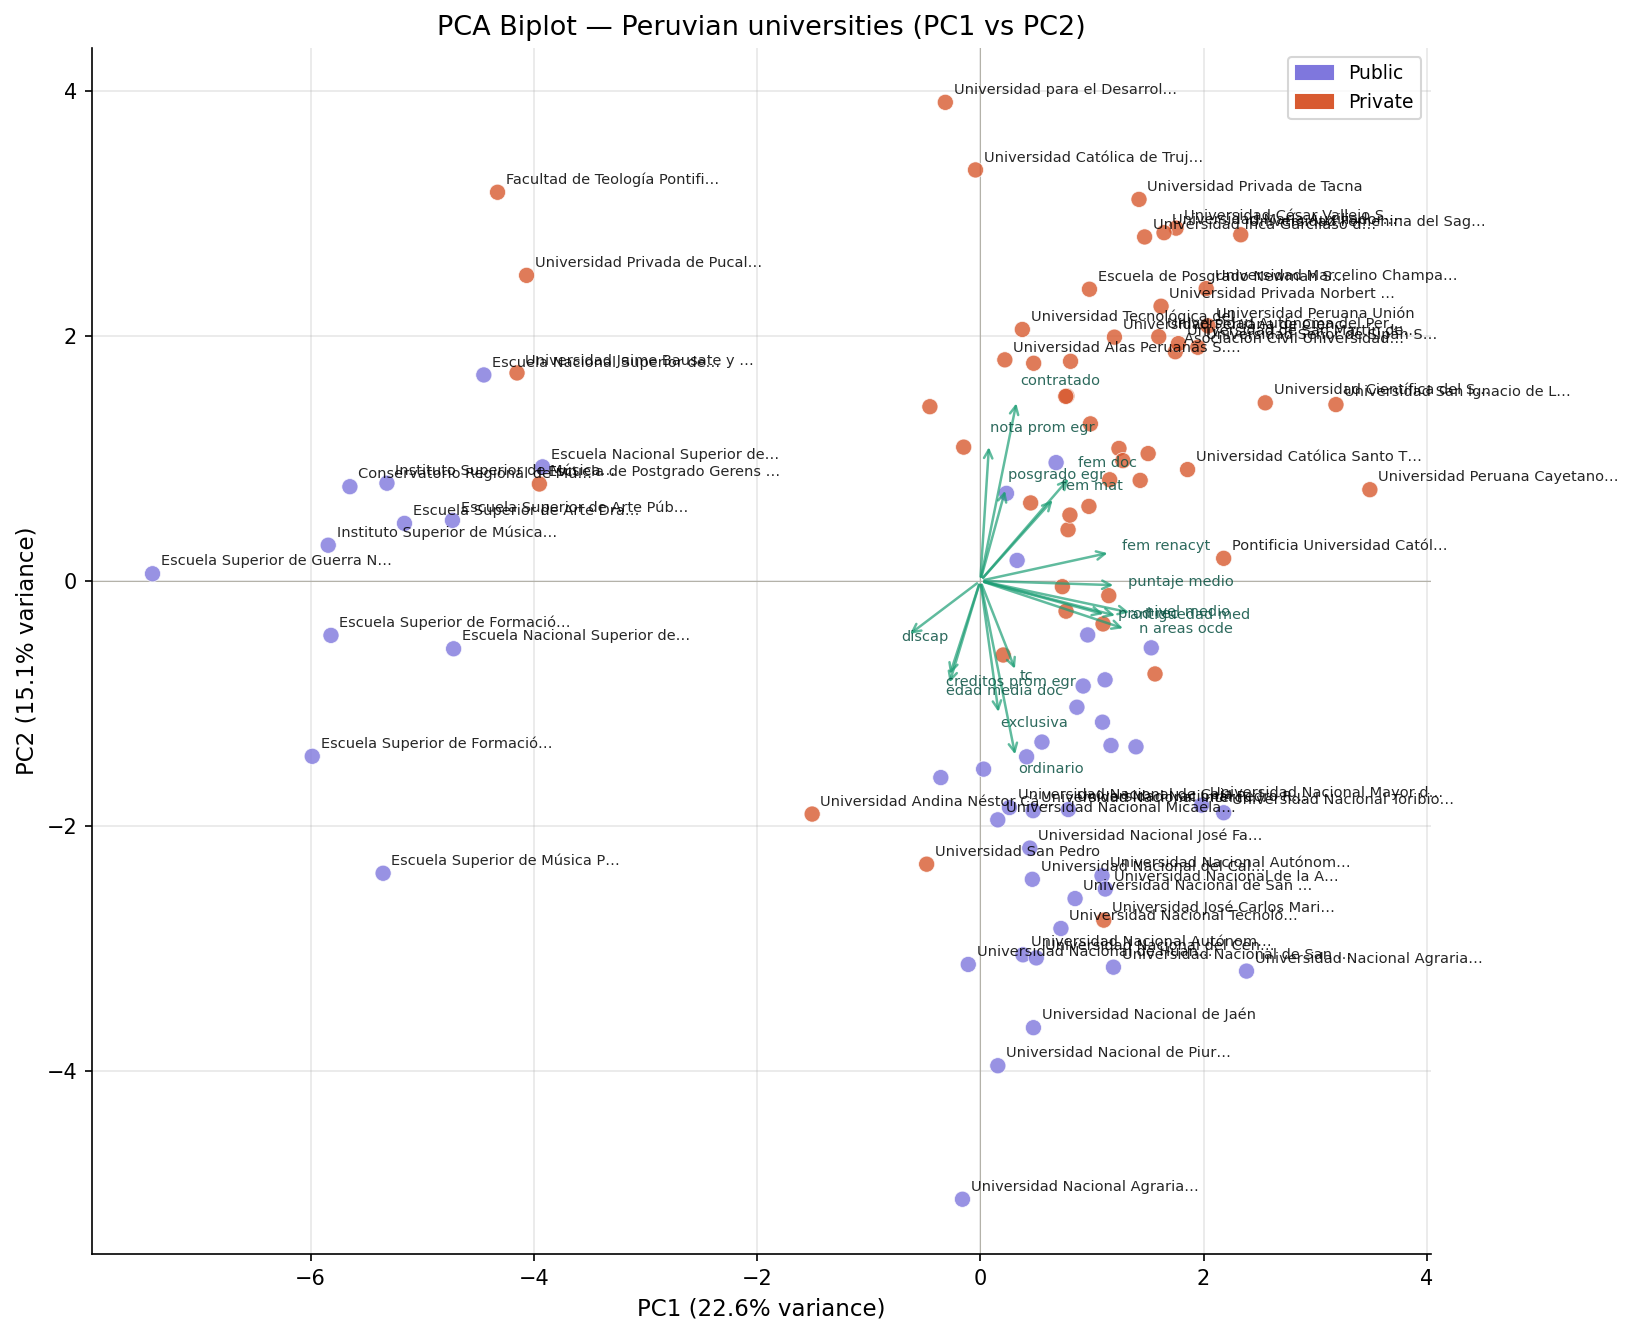
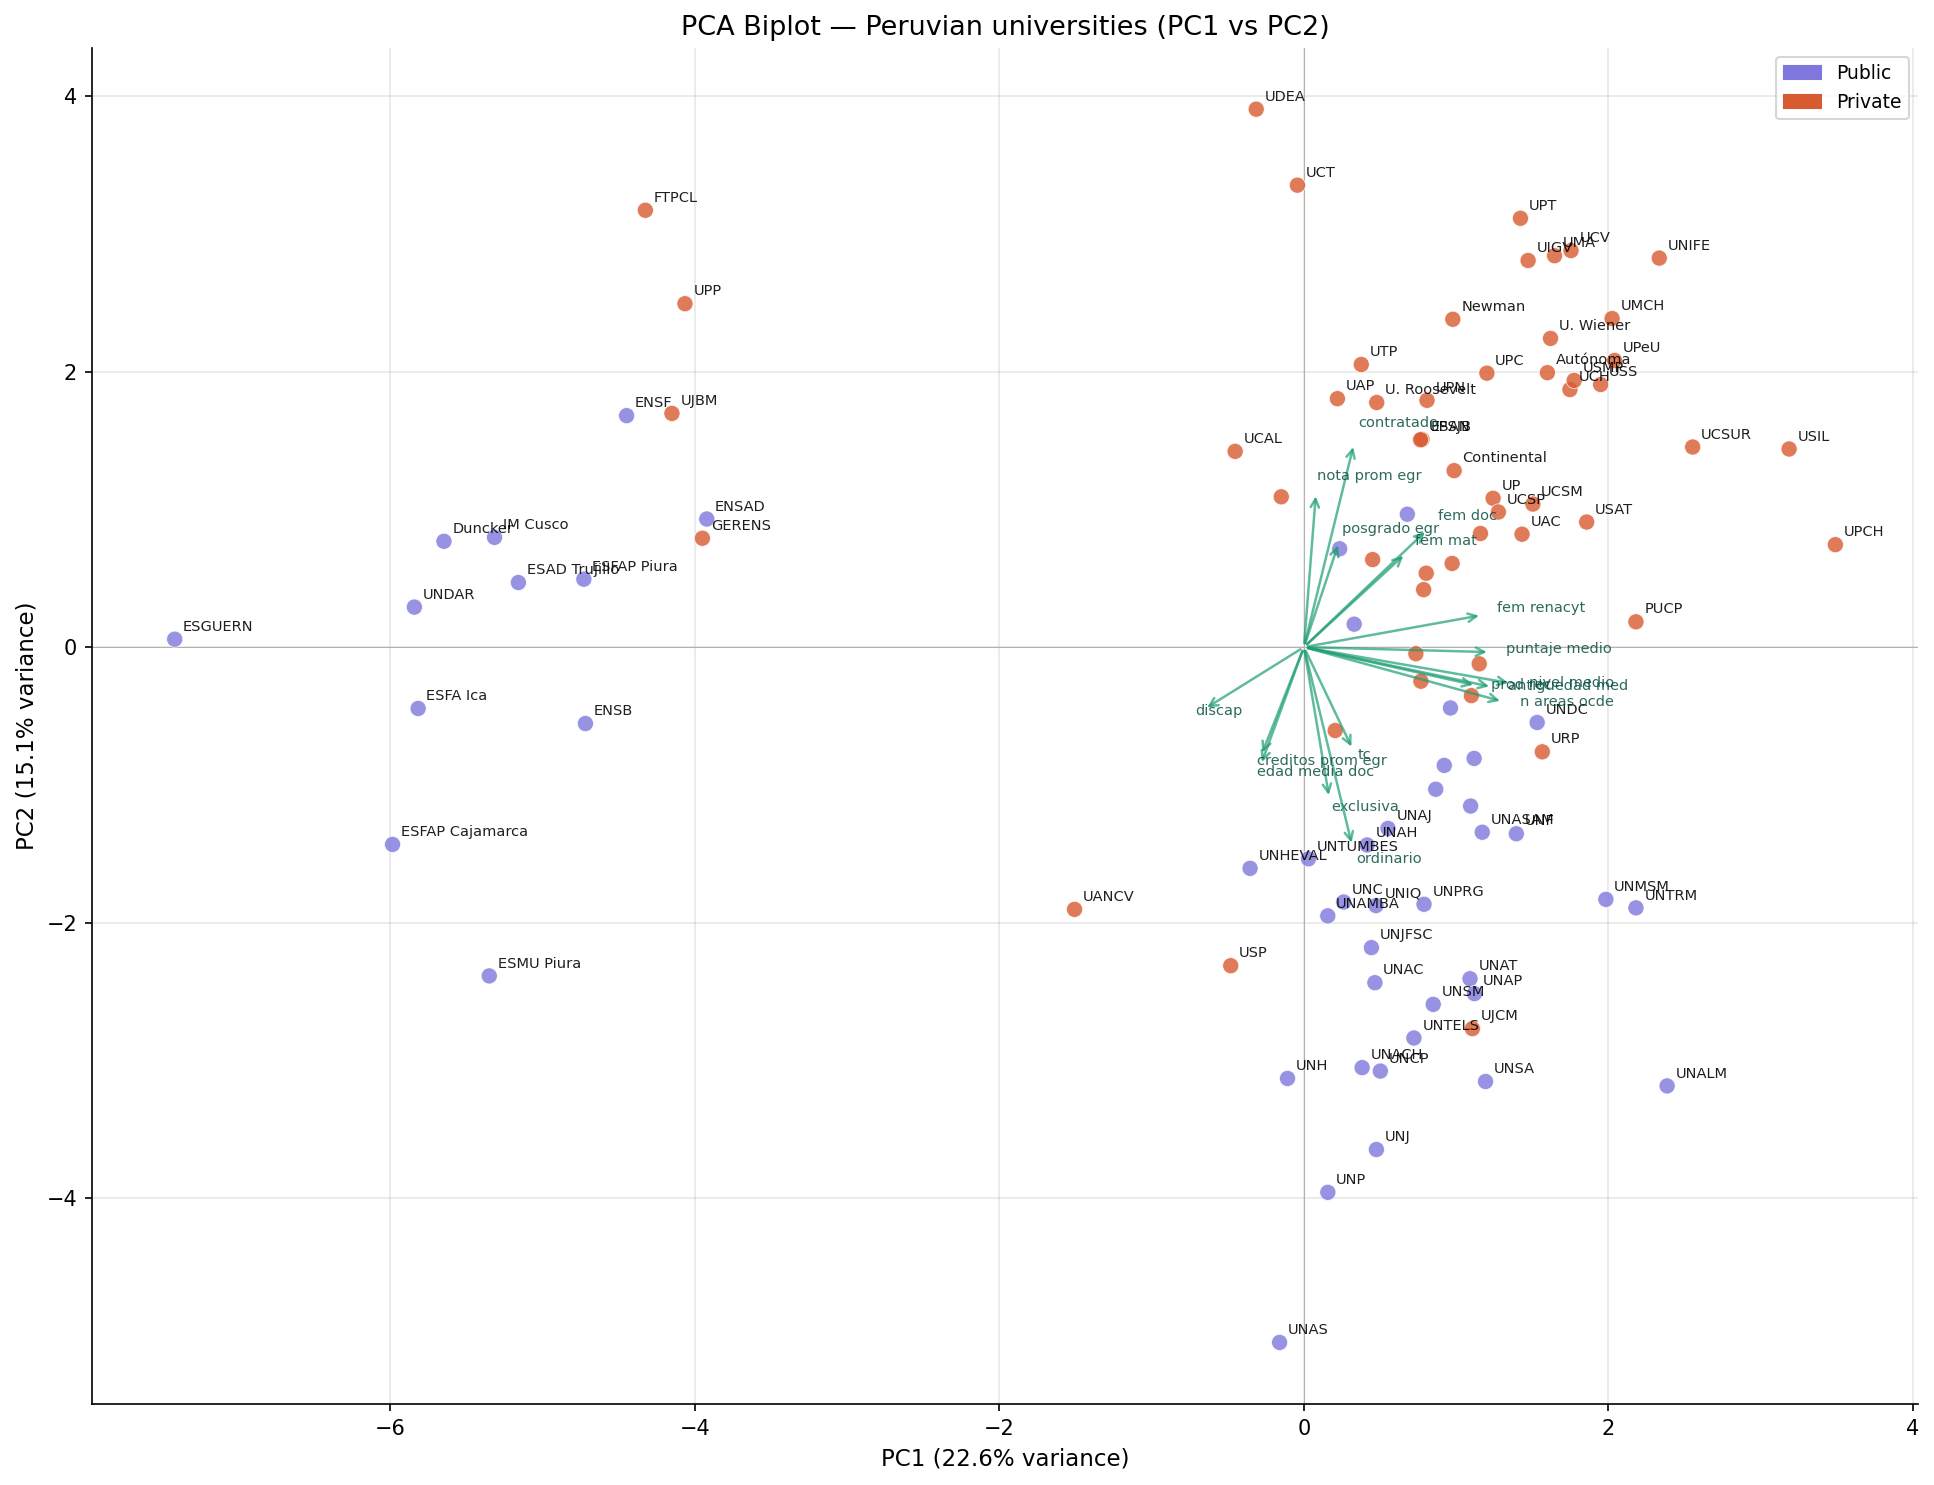
agregar siglas al biplot PCA (01b)

diff --git a/src/01_pca.py b/src/01_pca.py
@@ -4,7 +4,7 @@
 Análisis de Componentes Principales (PCA) sobre la matriz estandarizada.
 Genera:
   - outputs/figures/01a_scree_plot.png
-  - outputs/figures/01b_biplot_pc1_pc2.png
+  - outputs/figures/01b_biplot_pc1_pc2.png  ← con siglas oficiales
   - outputs/figures/01c_varianza_acumulada.png
   - outputs/tables/01_pca_loadings.csv
 """
@@ -23,8 +23,115 @@ from config import (DATA_DIR, FIG_DIR, TABLE_DIR, FEATURE_COLS,
 
 plt.rcParams.update(MPL_STYLE)
 
+# ── Siglas oficiales de cada universidad ──────────────────────────────────────
+SIGLAS = {
+    "Universidad Nacional Agraria La Molina":                              "UNALM",
+    "Universidad Nacional Agraria de la Selva":                            "UNAS",
+    "Universidad Marcelino Champagnat":                                    "UMCH",
+    "Universidad Autónoma del Perú S.A.C.":                                "Autónoma",
+    "Universidad para el Desarrollo Andino":                               "UDEA",
+    "Universidad Nacional de Tumbes":                                      "UNTUMBES",
+    "Universidad de Piura":                                                "UDEP",
+    "Universidad Tecnológica del Perú S.A.C.":                            "UTP",
+    "Universidad de Huánuco":                                              "UDH",
+    "Universidad Andina del Cusco":                                        "UAC",
+    "Universidad Nacional de Cajamarca":                                   "UNC",
+    "Universidad Privada de Huancayo Franklin Roosevelt S.A.C.":          "U. Roosevelt",
+    "Universidad del Pacífico":                                            "UP",
+    "Universidad ESAN":                                                    "ESAN",
+    "Universidad Nacional Intercultural de Quillabamba":                   "UNIQ",
+    "Universidad Católica de Trujillo Benedicto XVI":                      "UCT",
+    "Universidad Nacional Autónoma de Tayacaja Daniel Hernández Morillo":  "UNAT",
+    "Universidad Nacional de Juliaca":                                     "UNAJ",
+    "Universidad San Pedro":                                               "USP",
+    "Universidad Nacional de Frontera":                                    "UNF",
+    "Universidad Nacional José María Arguedas":                            "UNAJMA",
+    "Universidad José Carlos Mariátegui":                                  "UJCM",
+    "Universidad César Vallejo S.A.C.":                                    "UCV",
+    "Universidad Nacional Micaela Bastidas de Apurímac":                   "UNAMBA",
+    "Universidad Católica Santo Toribio de Mogrovejo":                     "USAT",
+    "Universidad Privada de Pucallpa S.A.C.":                             "UPP",
+    "Universidad Nacional del Altiplano":                                  "UNA Puno",
+    "Universidad Católica de Santa María":                                 "UCSM",
+    "Universidad Inca Garcilaso de la Vega Asociación Civil":              "UIGV",
+    "Universidad Señor de Sipán S.A.C.":                                  "USS",
+    "Universidad Nacional Toribio Rodríguez de Mendoza de Amazonas":       "UNTRM",
+    "Universidad Antonio Ruiz de Montoya":                                 "UARM",
+    "Universidad Católica San Pablo":                                      "UCSP",
+    "Universidad Nacional Federico Villarreal":                            "UNFV",
+    "Universidad Nacional Amazónica de Madre de Dios":                     "UNAMAD",
+    "Universidad Privada Antenor Orrego":                                  "UPAO",
+    "Universidad Católica Los Ángeles de Chimbote":                        "ULADECH",
+    "Universidad Femenina del Sagrado Corazón":                            "UNIFE",
+    "Universidad de Lima":                                                 "ULIMA",
+    "Escuela de Postgrado Gerens S.A.":                                    "GERENS",
+    "Universidad Nacional Hermilio Valdizán de Huánuco":                   "UNHEVAL",
+    "Universidad Continental S.A.C.":                                     "Continental",
+    "Pontificia Universidad Católica del Perú":                            "PUCP",
+    "Universidad Privada del Norte S.A.C.":                               "UPN",
+    "Universidad Científica del Sur S.A.C.":                              "UCSUR",
+    "Universidad Católica Sedes Sapientiae":                               "UCSS",
+    "Universidad Nacional del Callao":                                     "UNAC",
+    "Universidad Ricardo Palma":                                           "URP",
+    "Universidad Privada San Juan Bautista S.A.C.":                       "UPSJB",
+    "Universidad Nacional de Cañete":                                      "UNDC",
+    "Universidad Nacional Tecnológica de Lima Sur":                        "UNTELS",
+    "Universidad Nacional Santiago Antúnez de Mayolo":                     "UNASAM",
+    "Universidad de Ingeniería y Tecnología":                              "UTEC",
+    "Universidad Peruana de Ciencias Aplicadas S.A.C.":                   "UPC",
+    "Universidad Privada Norbert Wiener S.A.":                            "U. Wiener",
+    "Facultad de Teología Pontificia y Civil de Lima":                     "FTPCL",
+    "Universidad Nacional de Moquegua":                                    "UNAM",
+    "Universidad Nacional Daniel Alcides Carrión":                         "UNDAC",
+    "Universidad Nacional de San Agustín de Arequipa":                     "UNSA",
+    "Universidad Nacional de Jaén":                                        "UNJ",
+    "Universidad Peruana Los Andes":                                       "UPLA",
+    "Universidad Le Cordon Bleu S.A.C.":                                  "ULCB",
+    "Asociación Civil Universidad de Ciencias y Humanidades":              "UCH",
+    "Universidad Privada de Tacna":                                        "UPT",
+    "Universidad de San Martín de Porres":                                 "USMP",
+    "Universidad Nacional de Piura":                                       "UNP",
+    "Universidad Nacional de San Martín":                                  "UNSM",
+    "Universidad Nacional Autónoma de Chota":                              "UNACH",
+    "Universidad Nacional José Faustino Sánchez Carrión":                  "UNJFSC",
+    "Universidad Nacional Intercultural de la Selva Central Juan Santos Atahualpa": "UNISCJSA",
+    "Universidad Nacional Autónoma de Huanta":                             "UNAH",
+    "Universidad María Auxiliadora S.A.C.":                               "UMA",
+    "Universidad Peruana Unión":                                           "UPeU",
+    "Universidad Nacional de Huancavelica":                                "UNH",
+    "Universidad Andina Néstor Cáceres Velásquez":                         "UANCV",
+    "Universidad Nacional Pedro Ruiz Gallo":                               "UNPRG",
+    "Universidad Alas Peruanas S.A.":                                     "UAP",
+    "Universidad Peruana Cayetano Heredia":                                "UPCH",
+    "Universidad Jaime Bausate y Meza":                                    "UJBM",
+    "Universidad Nacional de San Cristóbal de Huamanga":                   "UNSCH",
+    "Universidad Nacional Mayor de San Marcos":                            "UNMSM",
+    "Universidad Nacional de la Amazonía Peruana":                         "UNAP",
+    "Universidad Científica del Perú":                                     "UCP",
+    "Universidad de Ciencias y Artes de América Latina S.A.C.":           "UCAL",
+    "Universidad Nacional del Centro del Perú":                            "UNCP",
+    "Escuela de Posgrado Newman S.A.C.":                                  "Newman",
+    "Universidad San Ignacio de Loyola S.R.L.":                           "USIL",
+    'Escuela Nacional Superior de Arte Dramático "Guillermo Ugarte Chamorro"': "ENSAD",
+    "Escuela Nacional Superior de Folklore José María Arguedas":           "ENSF",
+    "Escuela Superior de Guerra Naval":                                    "ESGUERN",
+    "Conservatorio Regional de Música Luis Duncker Lavalle":               "Duncker",
+    "Instituto Superior de Música Público Daniel Alomía Robles de Huánuco": "UNDAR",
+    "Escuela Superior de Formación Artística Sérvulo Gutiérrez Alarcón de Ica": "ESFA Ica",
+    "Escuela Superior de Música Pública José María Valle Riestra de Piura": "ESMU Piura",
+    "Escuela Nacional Superior de Ballet":                                 "ENSB",
+    'Escuela Superior de Arte Dramático "Virgilio Rodríguez Nache"':       "ESAD Trujillo",
+    "Escuela Superior de Formación Artística Pública Mario Urteaga Alvarado de Cajamarca": "ESFAP Cajamarca",
+    "Escuela Superior de Arte Pública Ignacio Merino de Piura":            "ESFAP Piura",
+    "Instituto Superior de Música Público Leandro Alviña Miranda del Cusco": "IM Cusco",
+}
 
-# ── 1. Cargar datos ─────────────────────────────────────────────────────────────
+def get_sigla(nombre):
+    """Retorna la sigla oficial o un nombre corto si no existe."""
+    return SIGLAS.get(nombre, nombre[:10] + "…")
+
+
+# ── 1. Cargar datos ───────────────────────────────────────────────────────────
 def cargar_datos():
     local = DATA_DIR / "matriz_escalada.csv"
     if local.exists():
@@ -38,33 +145,33 @@ df_scaled = cargar_datos()
 df_master = pd.read_csv(DATA_DIR / "matriz_maestra.csv") if (DATA_DIR / "matriz_maestra.csv").exists() \
             else pd.read_csv(DATA_URLS["maestra"])
 
-X = df_scaled[FEATURE_COLS].values
-unis = df_scaled["universidad"].values
-es_publico = df_master["es_publico"].values
+X           = df_scaled[FEATURE_COLS].values
+unis        = df_scaled["universidad"].values
+es_publico  = df_master["es_publico"].values
 print(f"Matriz cargada: {X.shape[0]} universidades × {X.shape[1]} features")
 
 
-# ── 2. Ajustar PCA ──────────────────────────────────────────────────────────────
+# ── 2. Ajustar PCA ────────────────────────────────────────────────────────────
 pca_full = PCA(random_state=42)
 pca_full.fit(X)
 
-var_ratio     = pca_full.explained_variance_ratio_
-var_cumul     = np.cumsum(var_ratio)
-n_comp_90     = int(np.argmax(var_cumul >= PCA_VARIANCE) + 1)
+var_ratio  = pca_full.explained_variance_ratio_
+var_cumul  = np.cumsum(var_ratio)
+n_comp_90  = int(np.argmax(var_cumul >= PCA_VARIANCE) + 1)
 
 print(f"\nVarianza explicada por componente:")
 for i, v in enumerate(var_ratio[:8]):
     print(f"  PC{i+1}: {v*100:.1f}%  (acum: {var_cumul[i]*100:.1f}%)")
 print(f"\nComponentes para retener {PCA_VARIANCE*100:.0f}% varianza: {n_comp_90}")
 
-pca = PCA(n_components=n_comp_90, random_state=42)
+pca   = PCA(n_components=n_comp_90, random_state=42)
 X_pca = pca.fit_transform(X)
 
 np.save(DATA_DIR / "X_pca.npy", X_pca)
 print(f"X_pca guardado en data/X_pca.npy  ({X_pca.shape})")
 
 
-# ── 3. Scree plot ───────────────────────────────────────────────────────────────
+# ── 3. Scree plot ─────────────────────────────────────────────────────────────
 fig, ax = plt.subplots(figsize=(8, 4))
 n_show = min(12, len(var_ratio))
 bars = ax.bar(
@@ -94,7 +201,7 @@ plt.close()
 print("Guardado: 01a_scree_plot.png")
 
 
-# ── 4. Varianza acumulada ───────────────────────────────────────────────────────
+# ── 4. Varianza acumulada ─────────────────────────────────────────────────────
 fig, ax = plt.subplots(figsize=(7, 4))
 ax.plot(range(1, len(var_cumul) + 1), var_cumul * 100,
         color="#7F77DD", marker="o", markersize=4, linewidth=1.5)
@@ -113,33 +220,35 @@ plt.close()
 print("Guardado: 01c_varianza_acumulada.png")
 
 
-# ── 5. Biplot PC1 vs PC2 ────────────────────────────────────────────────────────
-fig, ax = plt.subplots(figsize=(11, 9))
+# ── 5. Biplot PC1 vs PC2 — CON SIGLAS ────────────────────────────────────────
+fig, ax = plt.subplots(figsize=(13, 10))
 
-colors = ["#7F77DD" if p == 1 else "#D85A30" for p in es_publico]
+colors  = ["#7F77DD" if p == 1 else "#D85A30" for p in es_publico]
 scatter = ax.scatter(X_pca[:, 0], X_pca[:, 1], c=colors, s=60,
                      alpha=0.8, edgecolors="white", linewidths=0.4, zorder=3)
 
-# Etiquetas selectivas (IES con valores extremos en PC1 o PC2)
-pc1, pc2 = X_pca[:, 0], X_pca[:, 1]
-threshold = 1.8
+# Etiquetas con SIGLAS para todas las IES (umbral bajo para mostrar más)
+pc1, pc2  = X_pca[:, 0], X_pca[:, 1]
+threshold = 1.2   # más bajo que antes para mostrar más siglas
 for i, nombre in enumerate(unis):
     if abs(pc1[i]) > threshold or abs(pc2[i]) > threshold:
-        short = nombre[:28] + "…" if len(nombre) > 28 else nombre
-        ax.annotate(short, (pc1[i], pc2[i]),
-                    fontsize=7, alpha=0.85,
-                    xytext=(4, 4), textcoords="offset points")
+        sigla = get_sigla(nombre)
+        ax.annotate(sigla, (pc1[i], pc2[i]),
+                    fontsize=7, alpha=0.88,
+                    xytext=(4, 4), textcoords="offset points",
+                    fontweight="500")
 
 # Vectores de loadings (flechas de variables)
 loadings = pca.components_.T
-scale = 3.5
+scale    = 3.5
 for j, feat in enumerate(FEATURE_COLS):
     lx, ly = loadings[j, 0] * scale, loadings[j, 1] * scale
     if np.sqrt(lx**2 + ly**2) > 0.8:
         ax.annotate("", xy=(lx, ly), xytext=(0, 0),
                     arrowprops=dict(arrowstyle="->", color="#1D9E75",
                                    lw=1.2, alpha=0.7))
-        ax.text(lx * 1.08, ly * 1.08, feat.replace("pct_", "").replace("_", " "),
+        ax.text(lx * 1.08, ly * 1.08,
+                feat.replace("pct_", "").replace("_", " "),
                 fontsize=7, color="#085041", alpha=0.85)
 
 ax.axhline(0, color="#B4B2A9", linewidth=0.5)
@@ -157,7 +266,7 @@ plt.close()
 print("Guardado: 01b_biplot_pc1_pc2.png")
 
 
-# ── 6. Tabla de loadings ────────────────────────────────────────────────────────
+# ── 6. Tabla de loadings ──────────────────────────────────────────────────────
 loadings_df = pd.DataFrame(
     pca.components_.T,
     index=FEATURE_COLS,